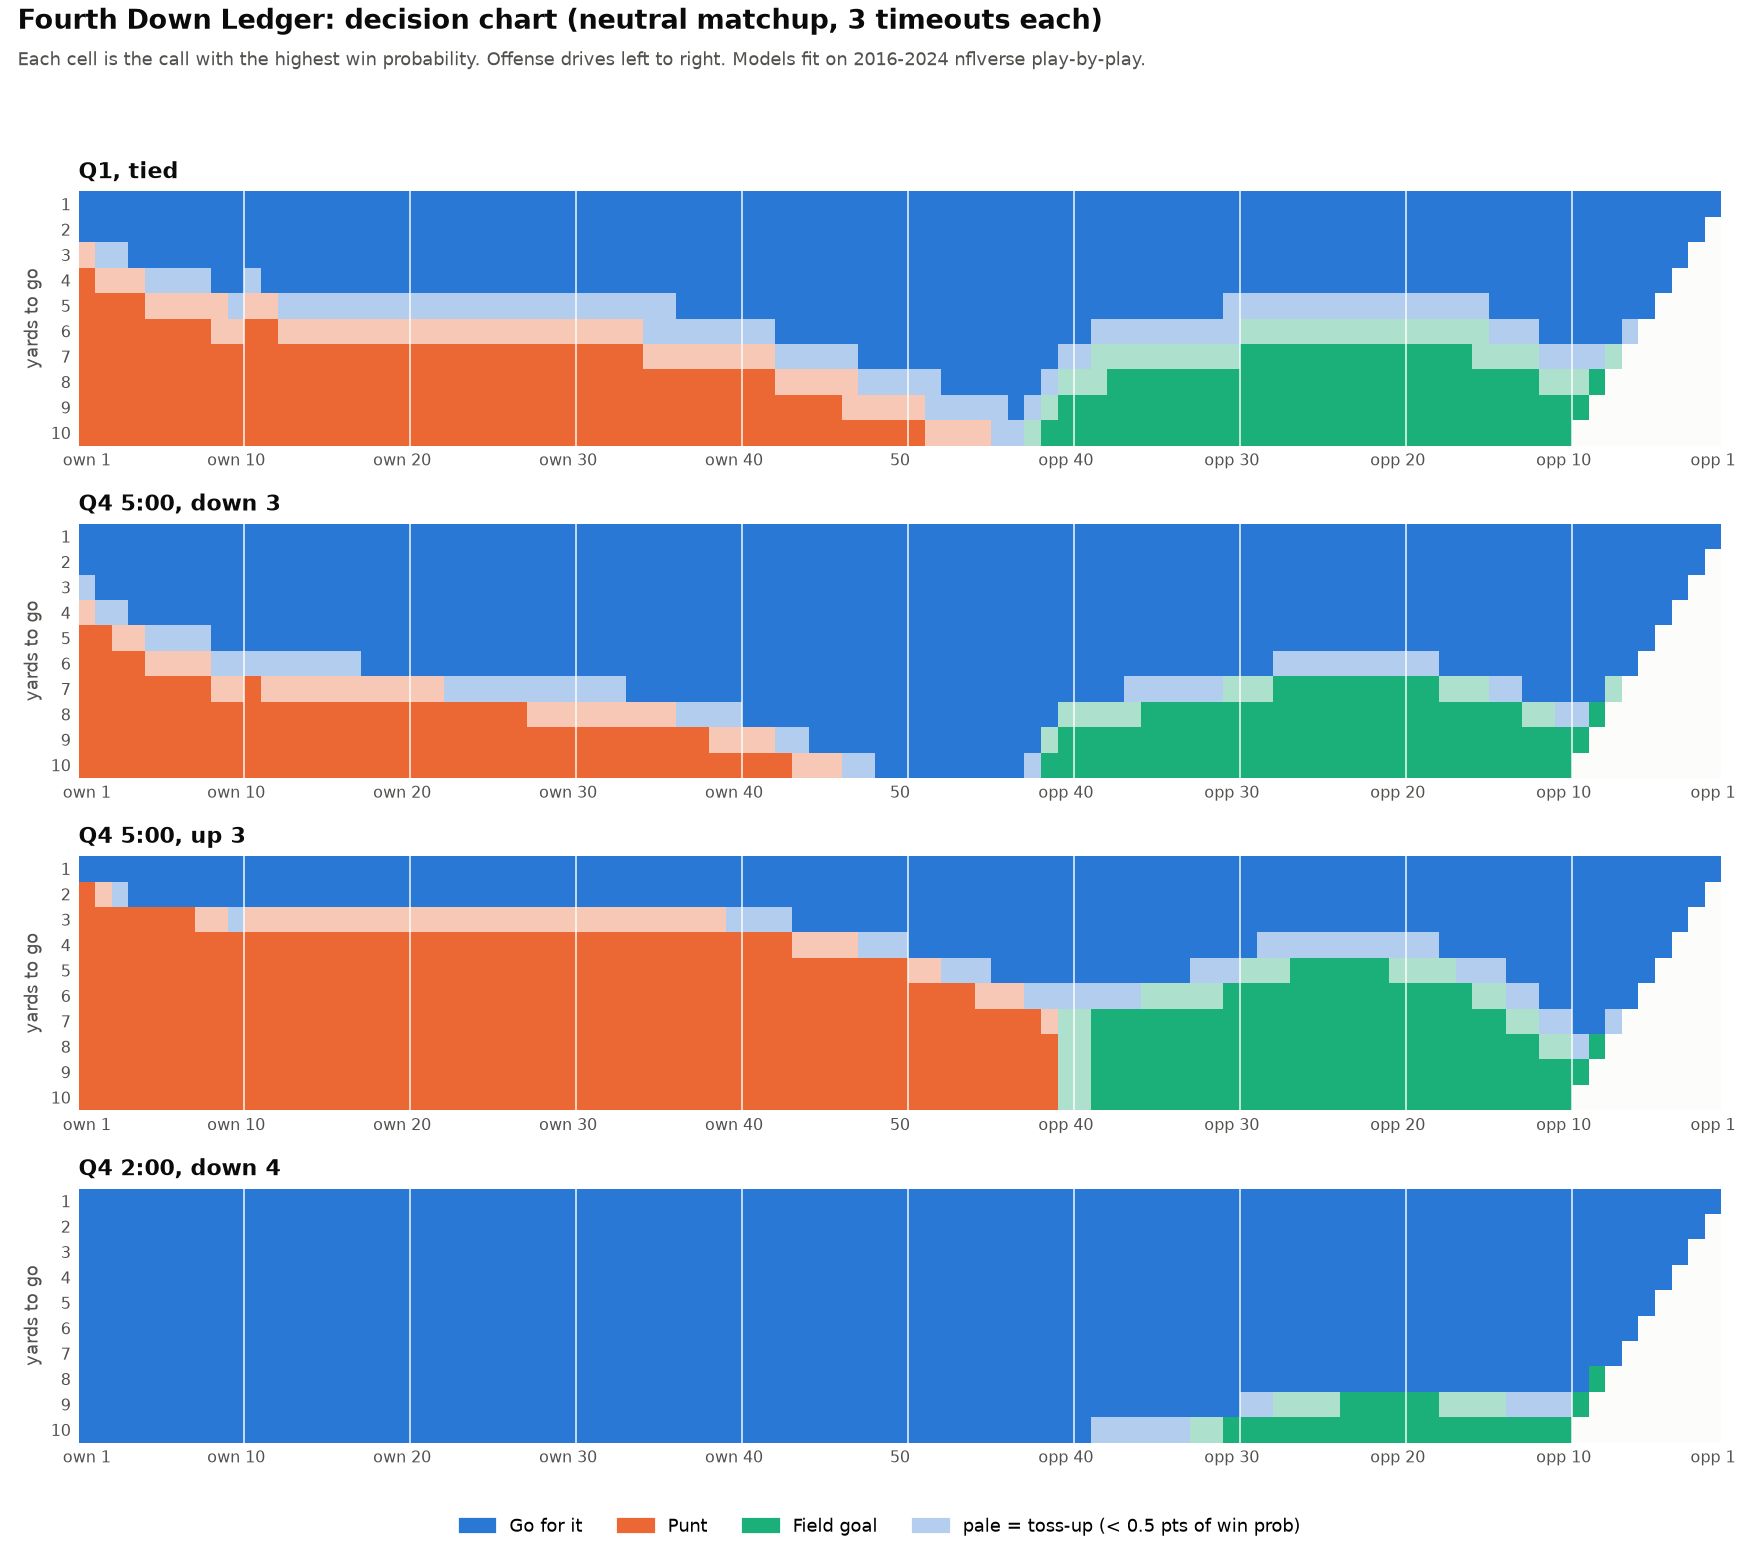
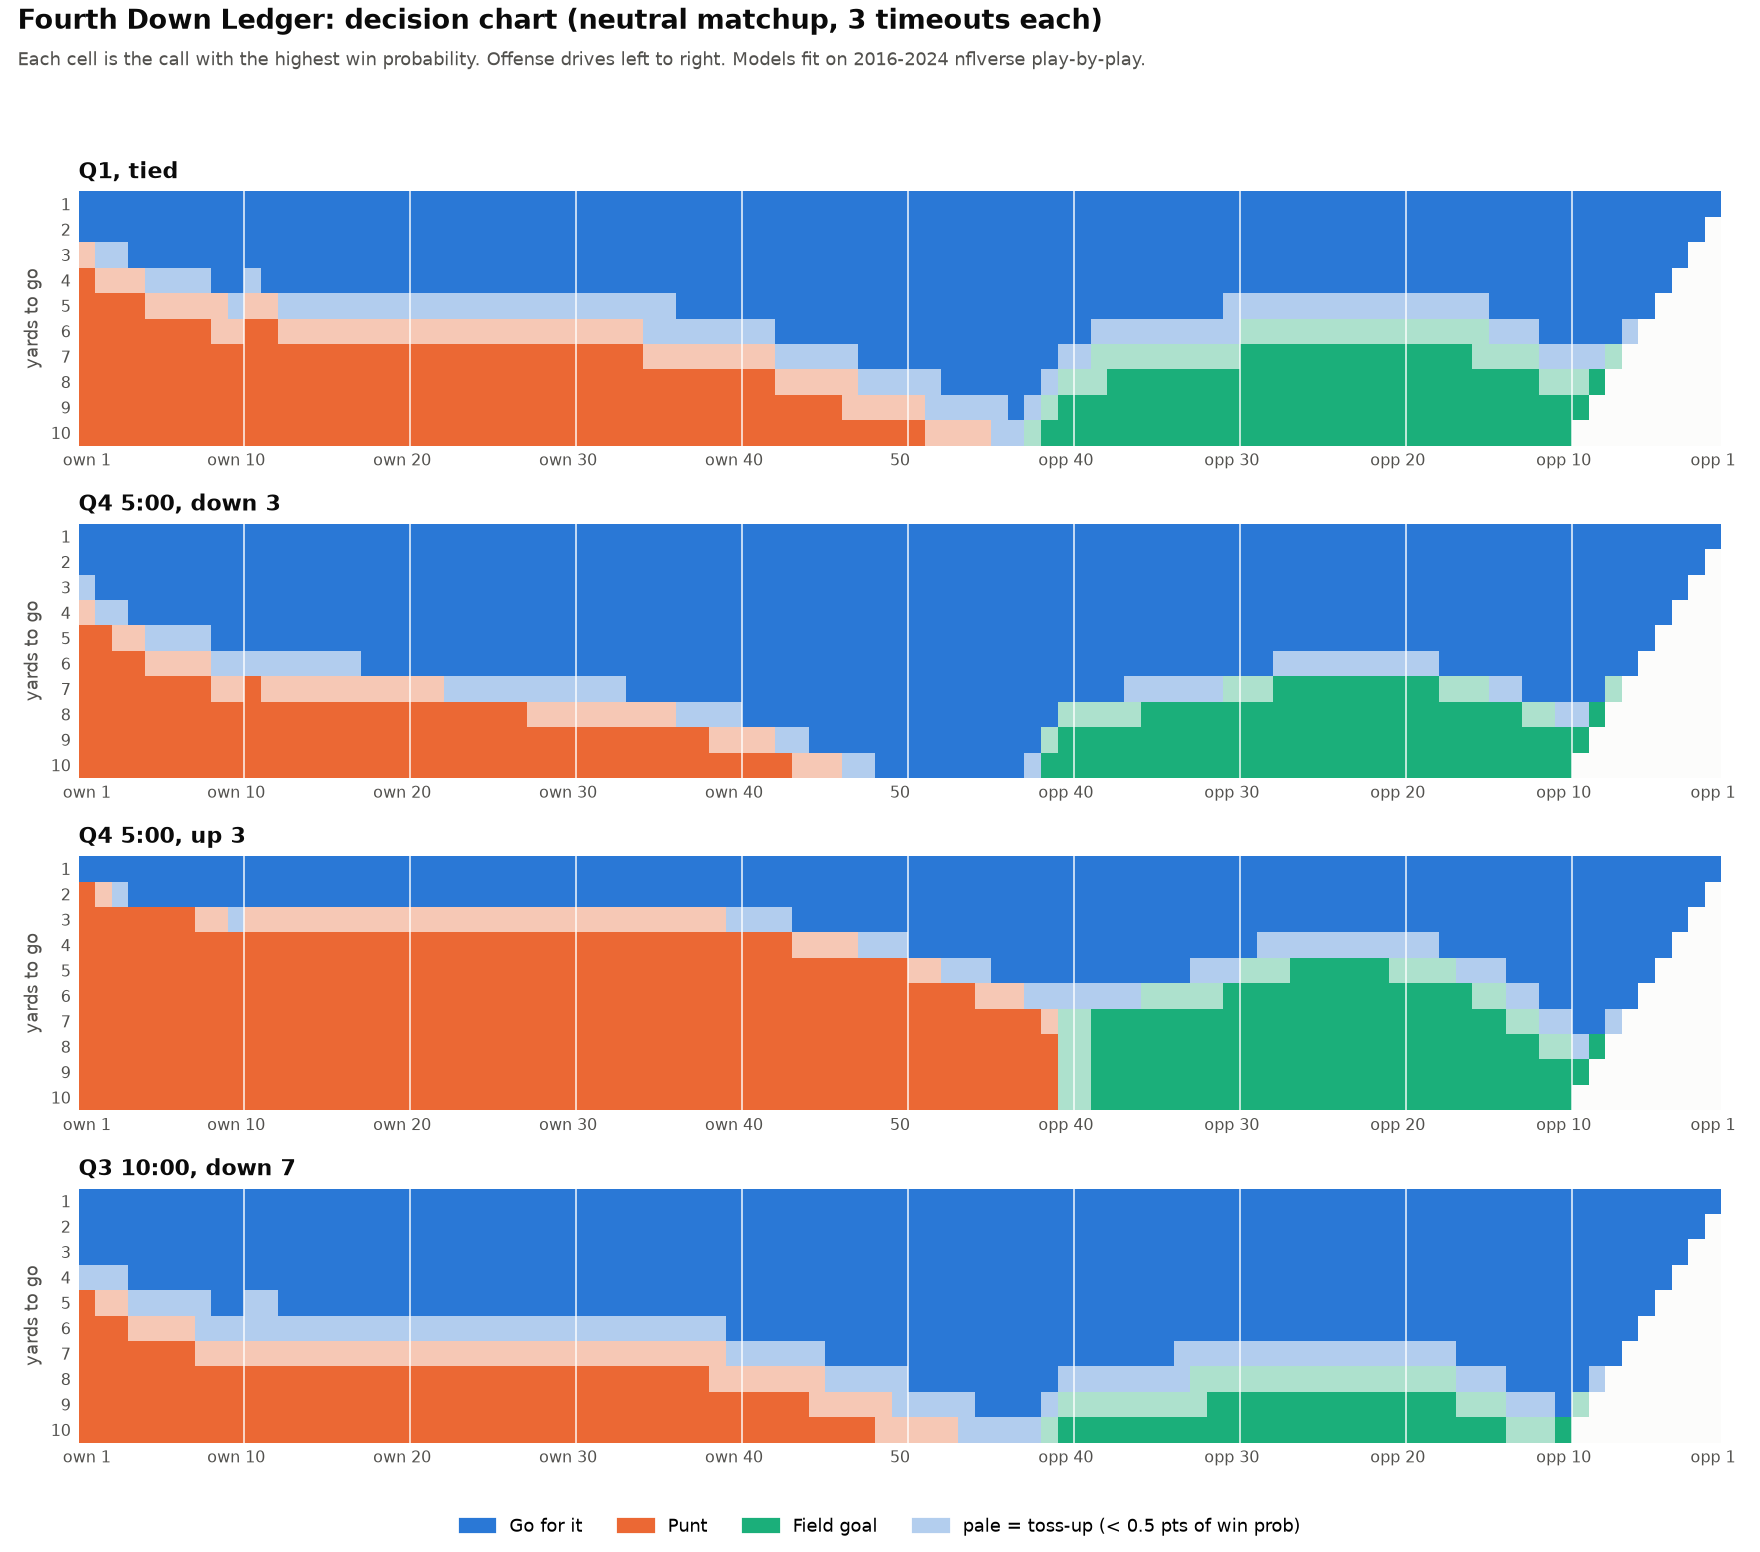
Tighten docs and the printable chart
Swap the final-minutes preset on the decision chart for a mid-game one,
state precisely which models are fit out of sample, and make the
handoff account-neutral.

Changed region(s): [[0.0312, 0.8041, 0.9062, 0.9278], [0.0625, 0.7423, 0.1562, 0.7732]]

diff --git a/fourthdown/charts.py b/fourthdown/charts.py
@@ -24,7 +24,7 @@ PRESETS = [
     ("Q1, tied", Situation(score_diff=0, qtr=1, quarter_seconds=900)),
     ("Q4 5:00, down 3", Situation(score_diff=-3, qtr=4, quarter_seconds=300)),
     ("Q4 5:00, up 3", Situation(score_diff=3, qtr=4, quarter_seconds=300)),
-    ("Q4 2:00, down 4", Situation(score_diff=-4, qtr=4, quarter_seconds=120, posteam_timeouts=2)),
+    ("Q3 10:00, down 7", Situation(score_diff=-7, qtr=3, quarter_seconds=600)),
 ]
 
 

diff --git a/README.md b/README.md
@@ -10,7 +10,7 @@ decision chart a coaching staff can print and carry.
 
 ## What it found (2025, scored out of sample)
 
-Every model was fit on 2016-2024 only, so the 2025 season is judged by a model that never saw it.
+Every pricing model was fit on 2016-2024 only, so the 2025 season is judged by models that never saw it. (The league-behaviour model behind the aggressiveness index is cross-fitted within each audited season, by design, and post-kickoff field position uses each season's own average because the kickoff rules changed.)
 
 1. **The league left 15.2 expected wins on the table** (95% CI 12.3 to 18.6) across 3,764
    fourth downs, about half a win per team. **90% of it came from kicking when going was
@@ -163,11 +163,6 @@ is the go-ahead kick).
 **Robustness checks built in.** Each play's agreement rate (share of the 200 refits that make
 the same call), 95% intervals on every play, team and coach total, and a toss-up shading on
 the decision chart.
-
-A note on model choice: I kept every component a classical regression or empirical
-distribution. A tree-boosted win-probability model I tried first scored worse on the same
-holdout (Brier 0.1618 against 0.1597 for the regression), and so did a tree-boosted conversion
-model (0.2267 against 0.2255).
 
 
 ## Limitations
